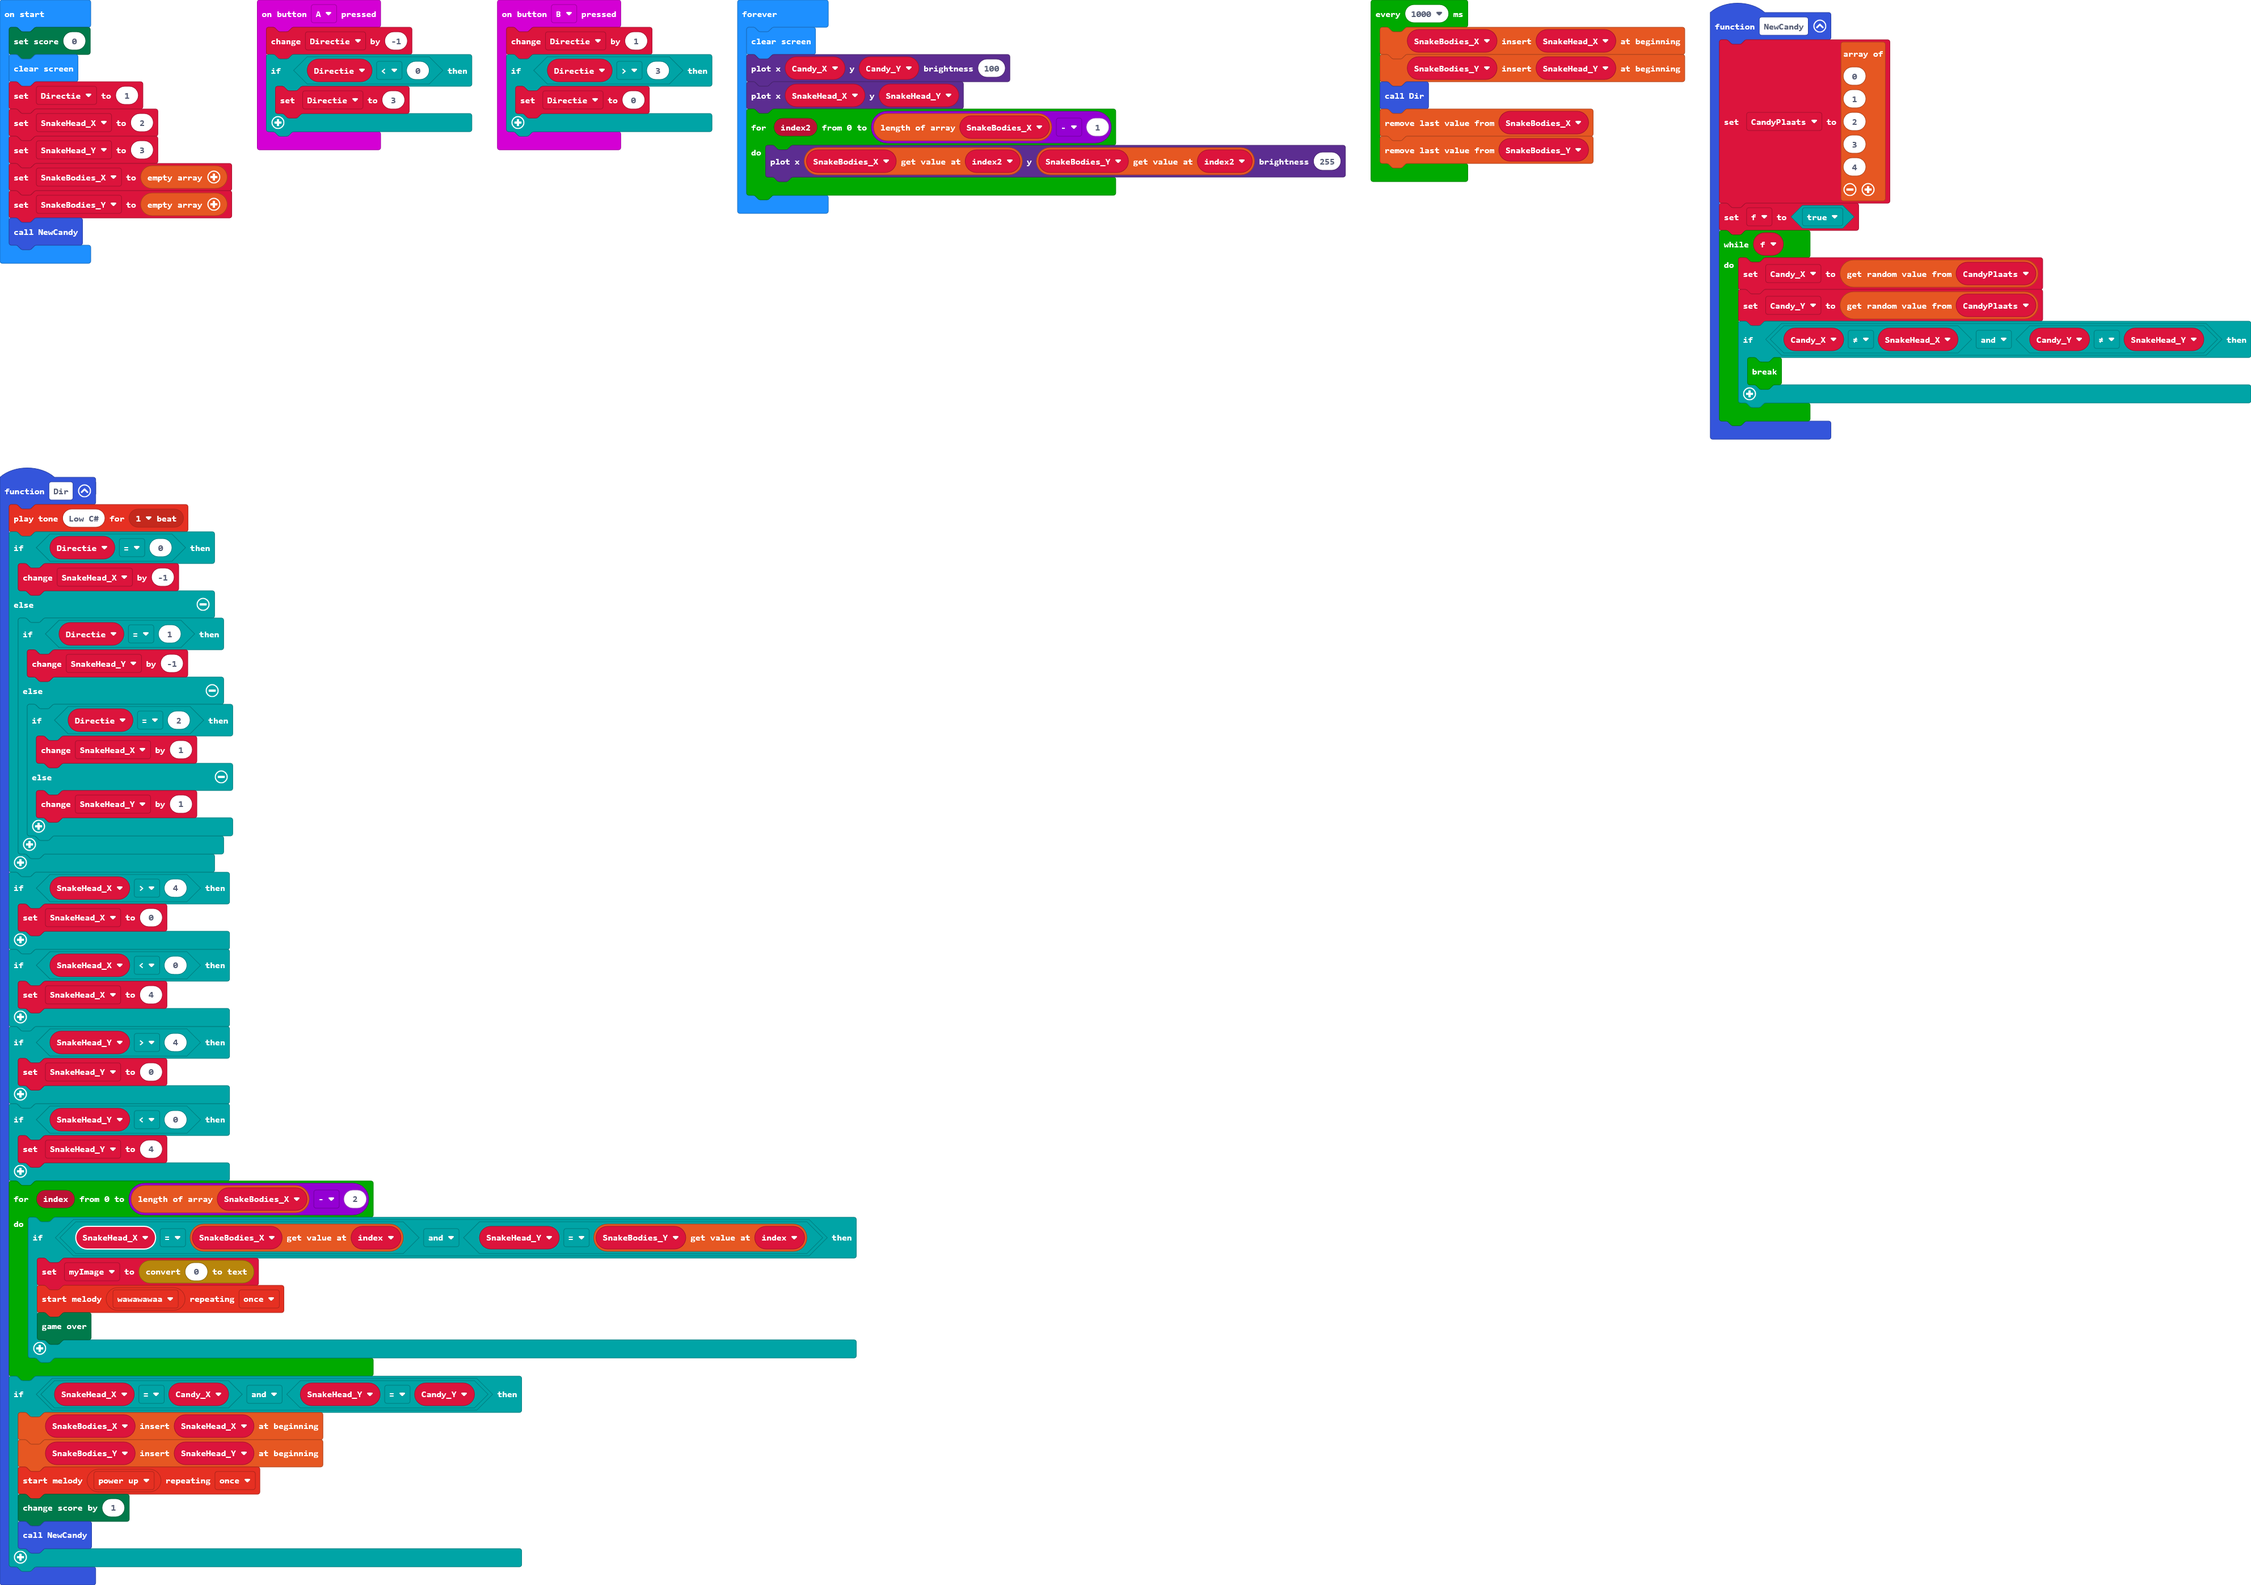
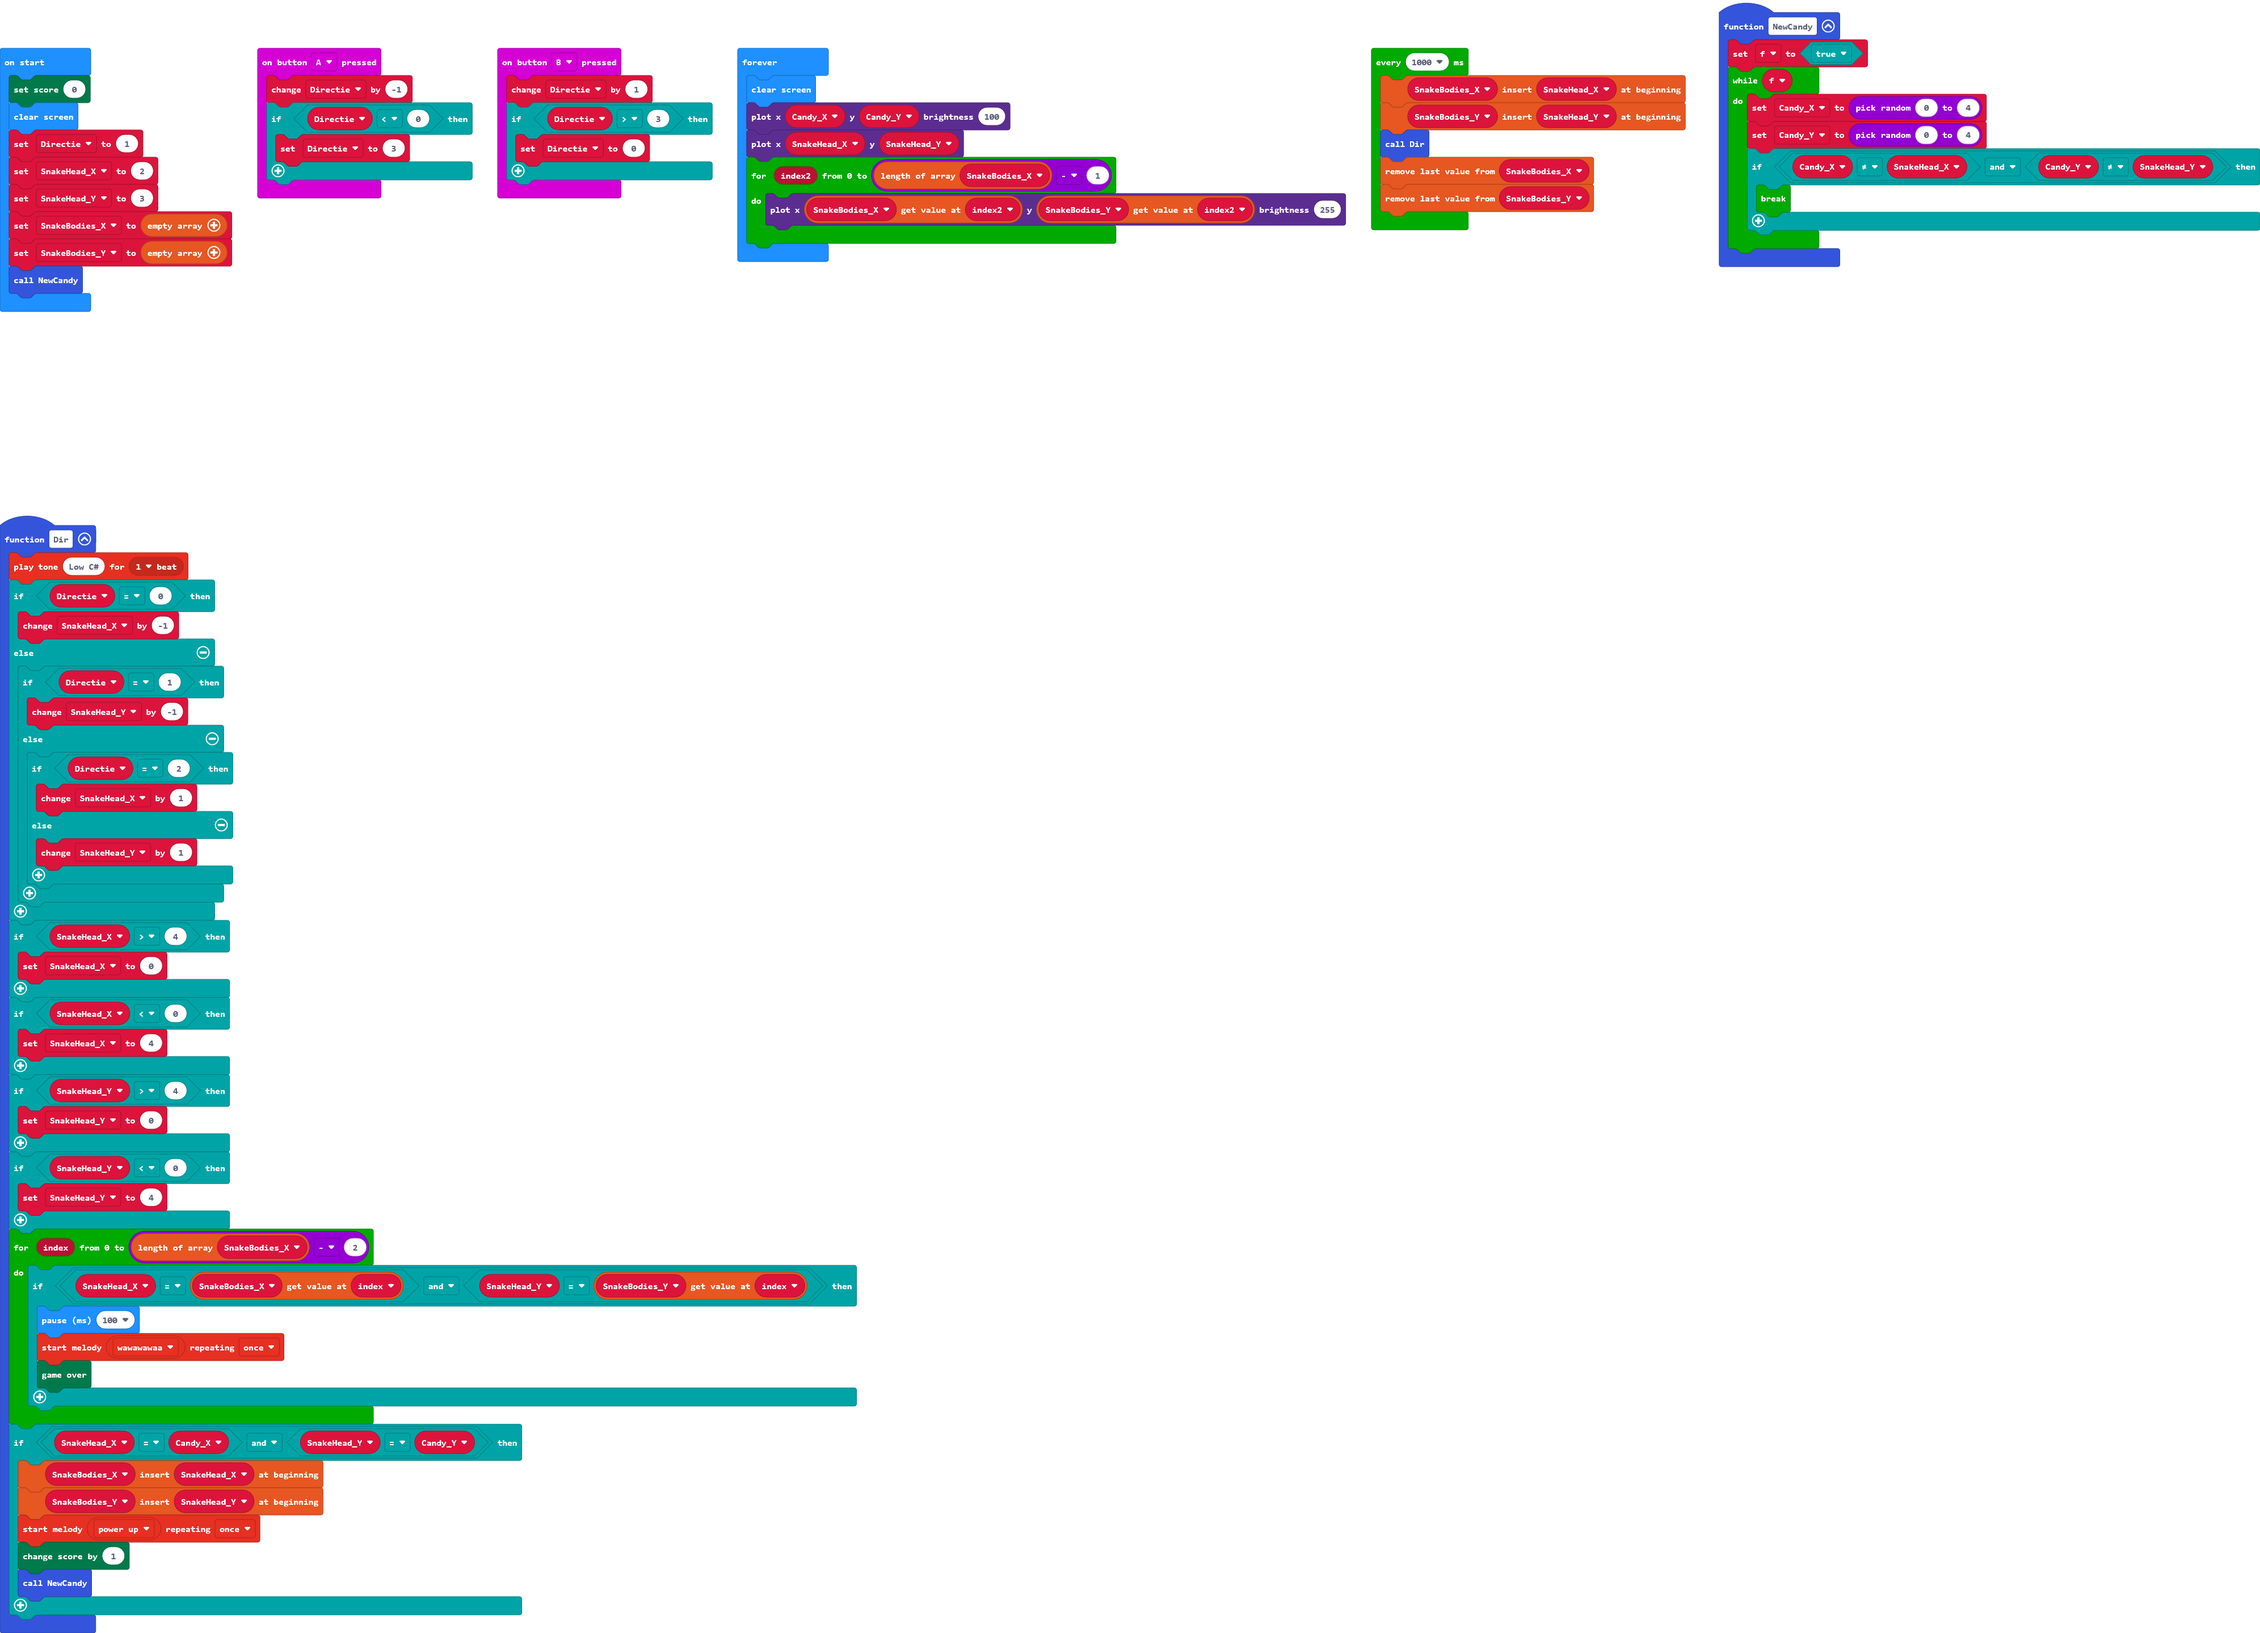
Improved randomization

Changed region(s): [[0.0, 0.0, 1.0, 0.2803], [0.0, 0.2803, 0.375, 0.9968]]

diff --git a/main.ts b/main.ts
@@ -1,15 +1,8 @@
 function NewCandy () {
-    CandyPlaats = [
-    0,
-    1,
-    2,
-    3,
-    4
-    ]
     f = true
     while (f) {
-        Candy_X = CandyPlaats._pickRandom()
-        Candy_Y = CandyPlaats._pickRandom()
+        Candy_X = randint(0, 4)
+        Candy_Y = randint(0, 4)
         if (Candy_X != SnakeHead_X && Candy_Y != SnakeHead_Y) {
             break;
         }
@@ -56,7 +49,7 @@ function Dir () {
     }
     for (let index = 0; index <= SnakeBodies_X.length - 2; index++) {
         if (SnakeHead_X == SnakeBodies_X[index] && SnakeHead_Y == SnakeBodies_Y[index]) {
-            myImage = convertToText(0)
+            basic.pause(100)
             music.startMelody(music.builtInMelody(Melodies.Wawawawaa), MelodyOptions.Once)
             game.gameOver()
         }
@@ -69,11 +62,9 @@ function Dir () {
         NewCandy()
     }
 }
-let myImage = ""
 let Candy_Y = 0
 let Candy_X = 0
 let f = false
-let CandyPlaats: number[] = []
 let SnakeBodies_Y: number[] = []
 let SnakeBodies_X: number[] = []
 let SnakeHead_Y = 0
